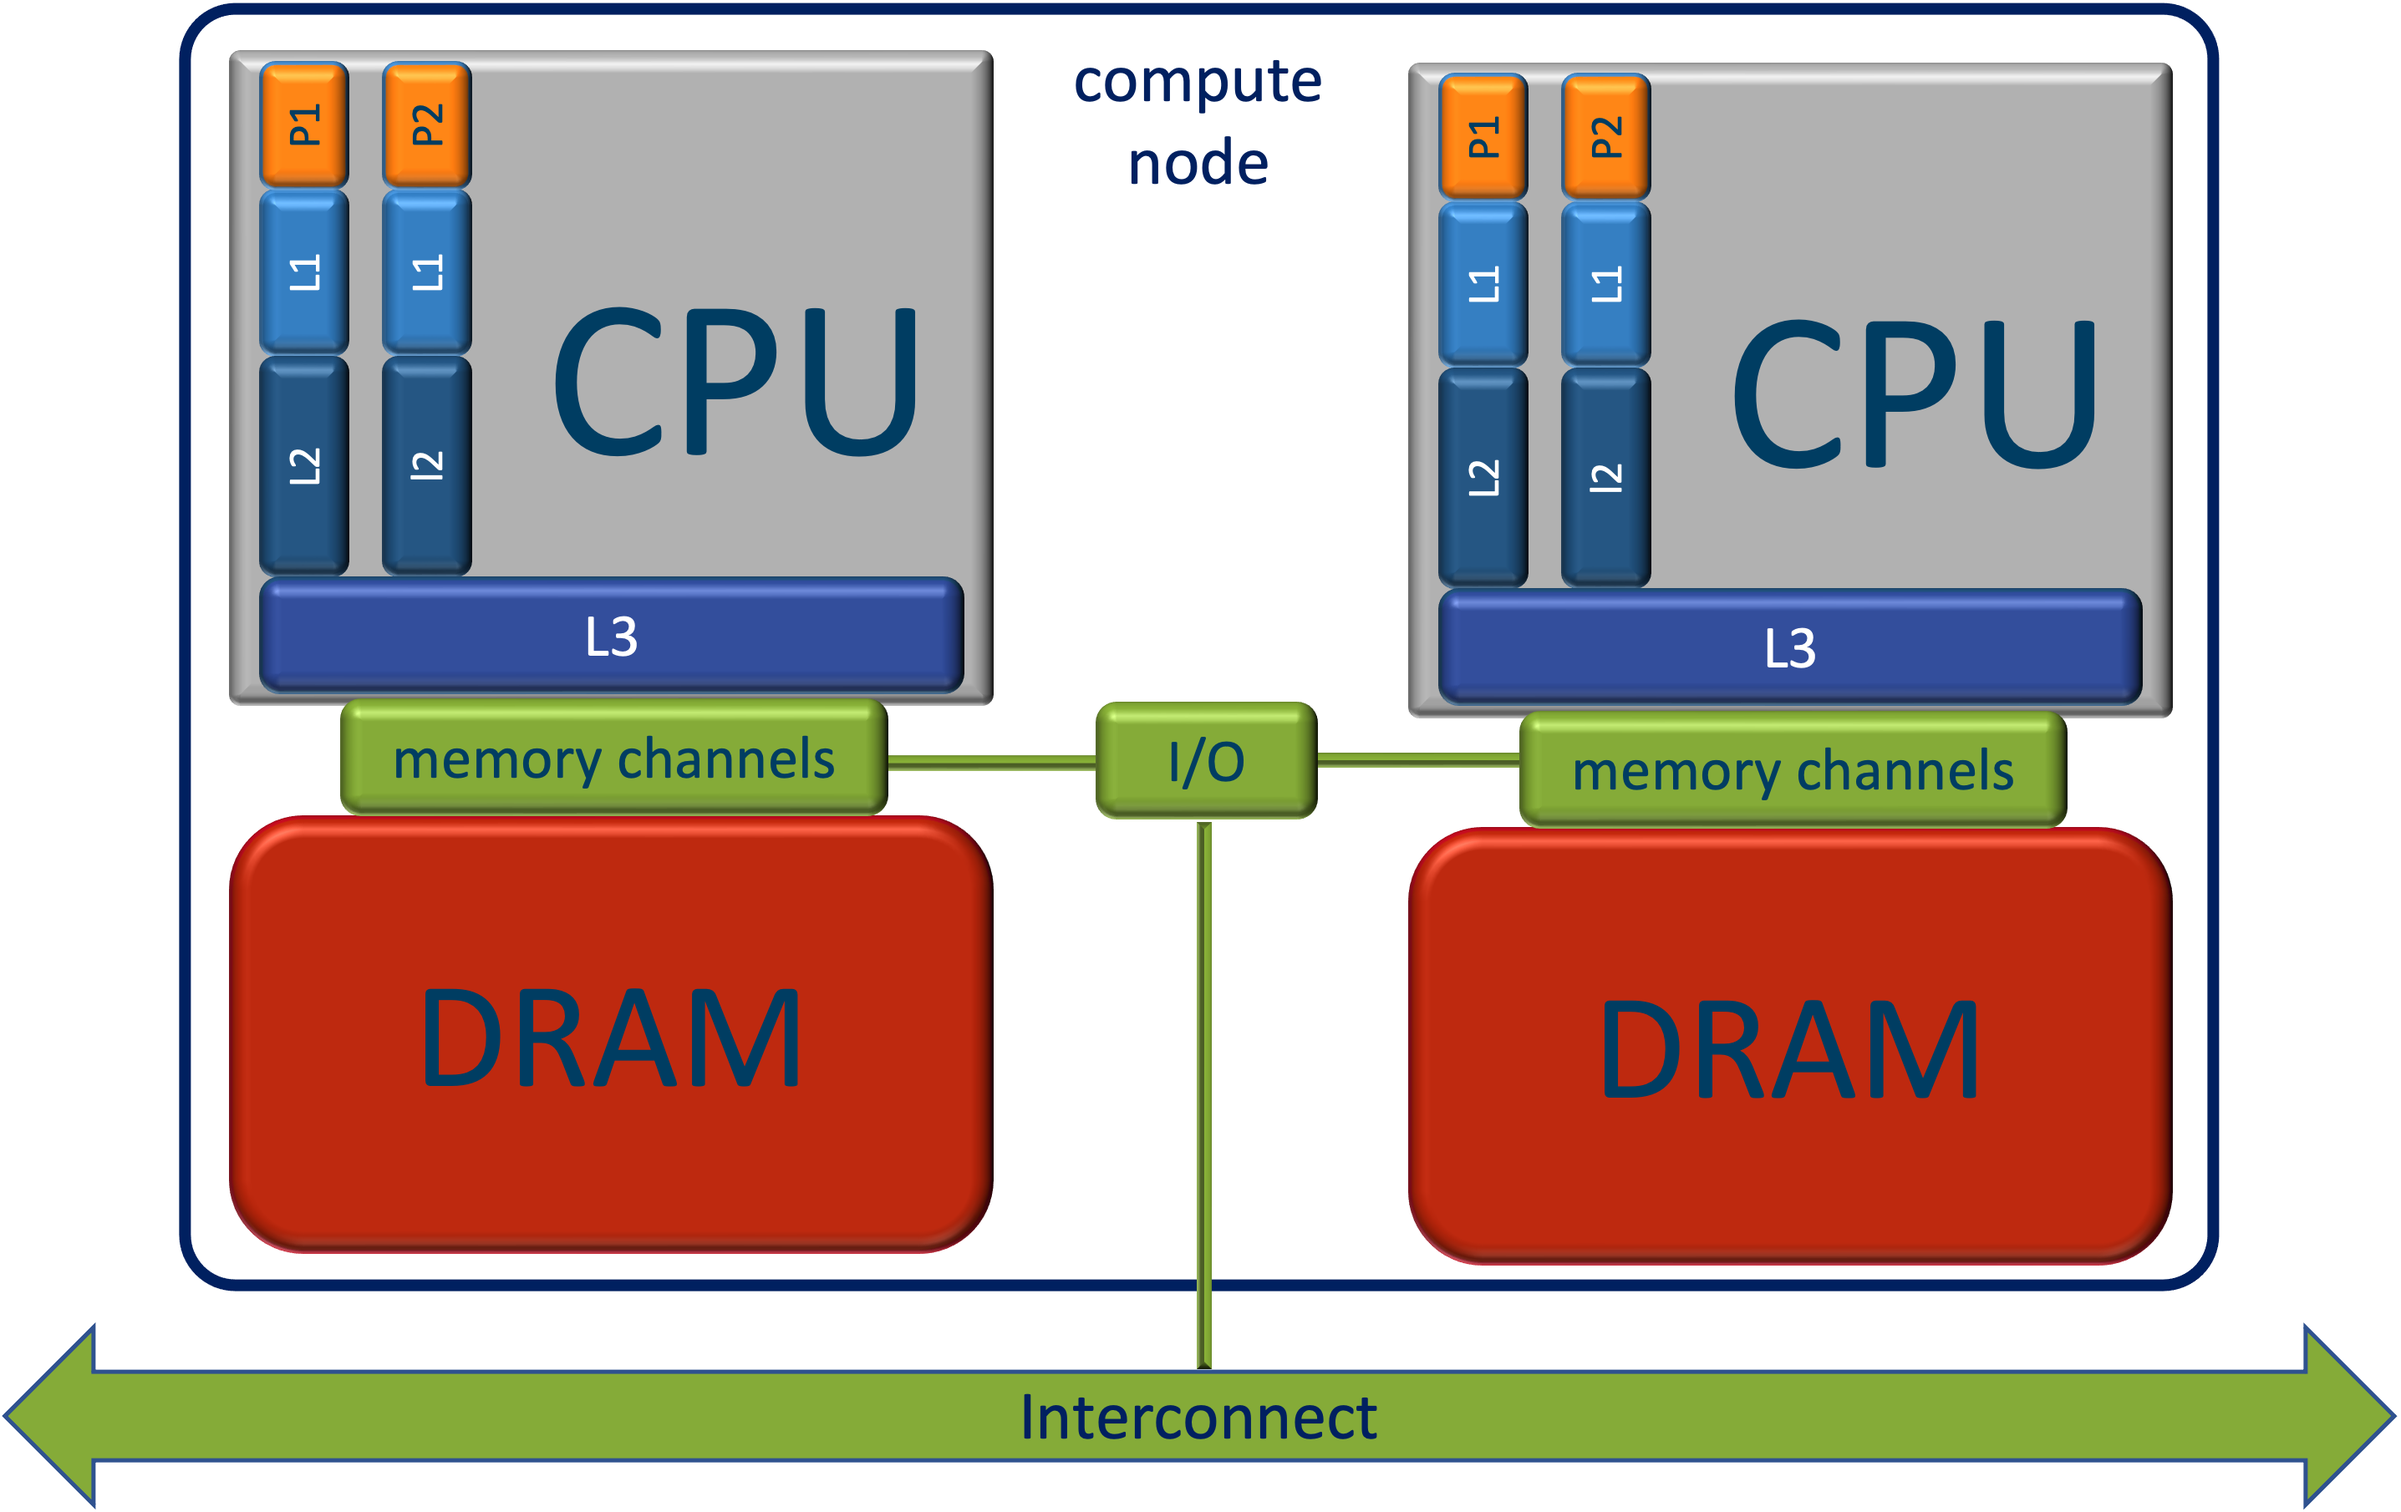
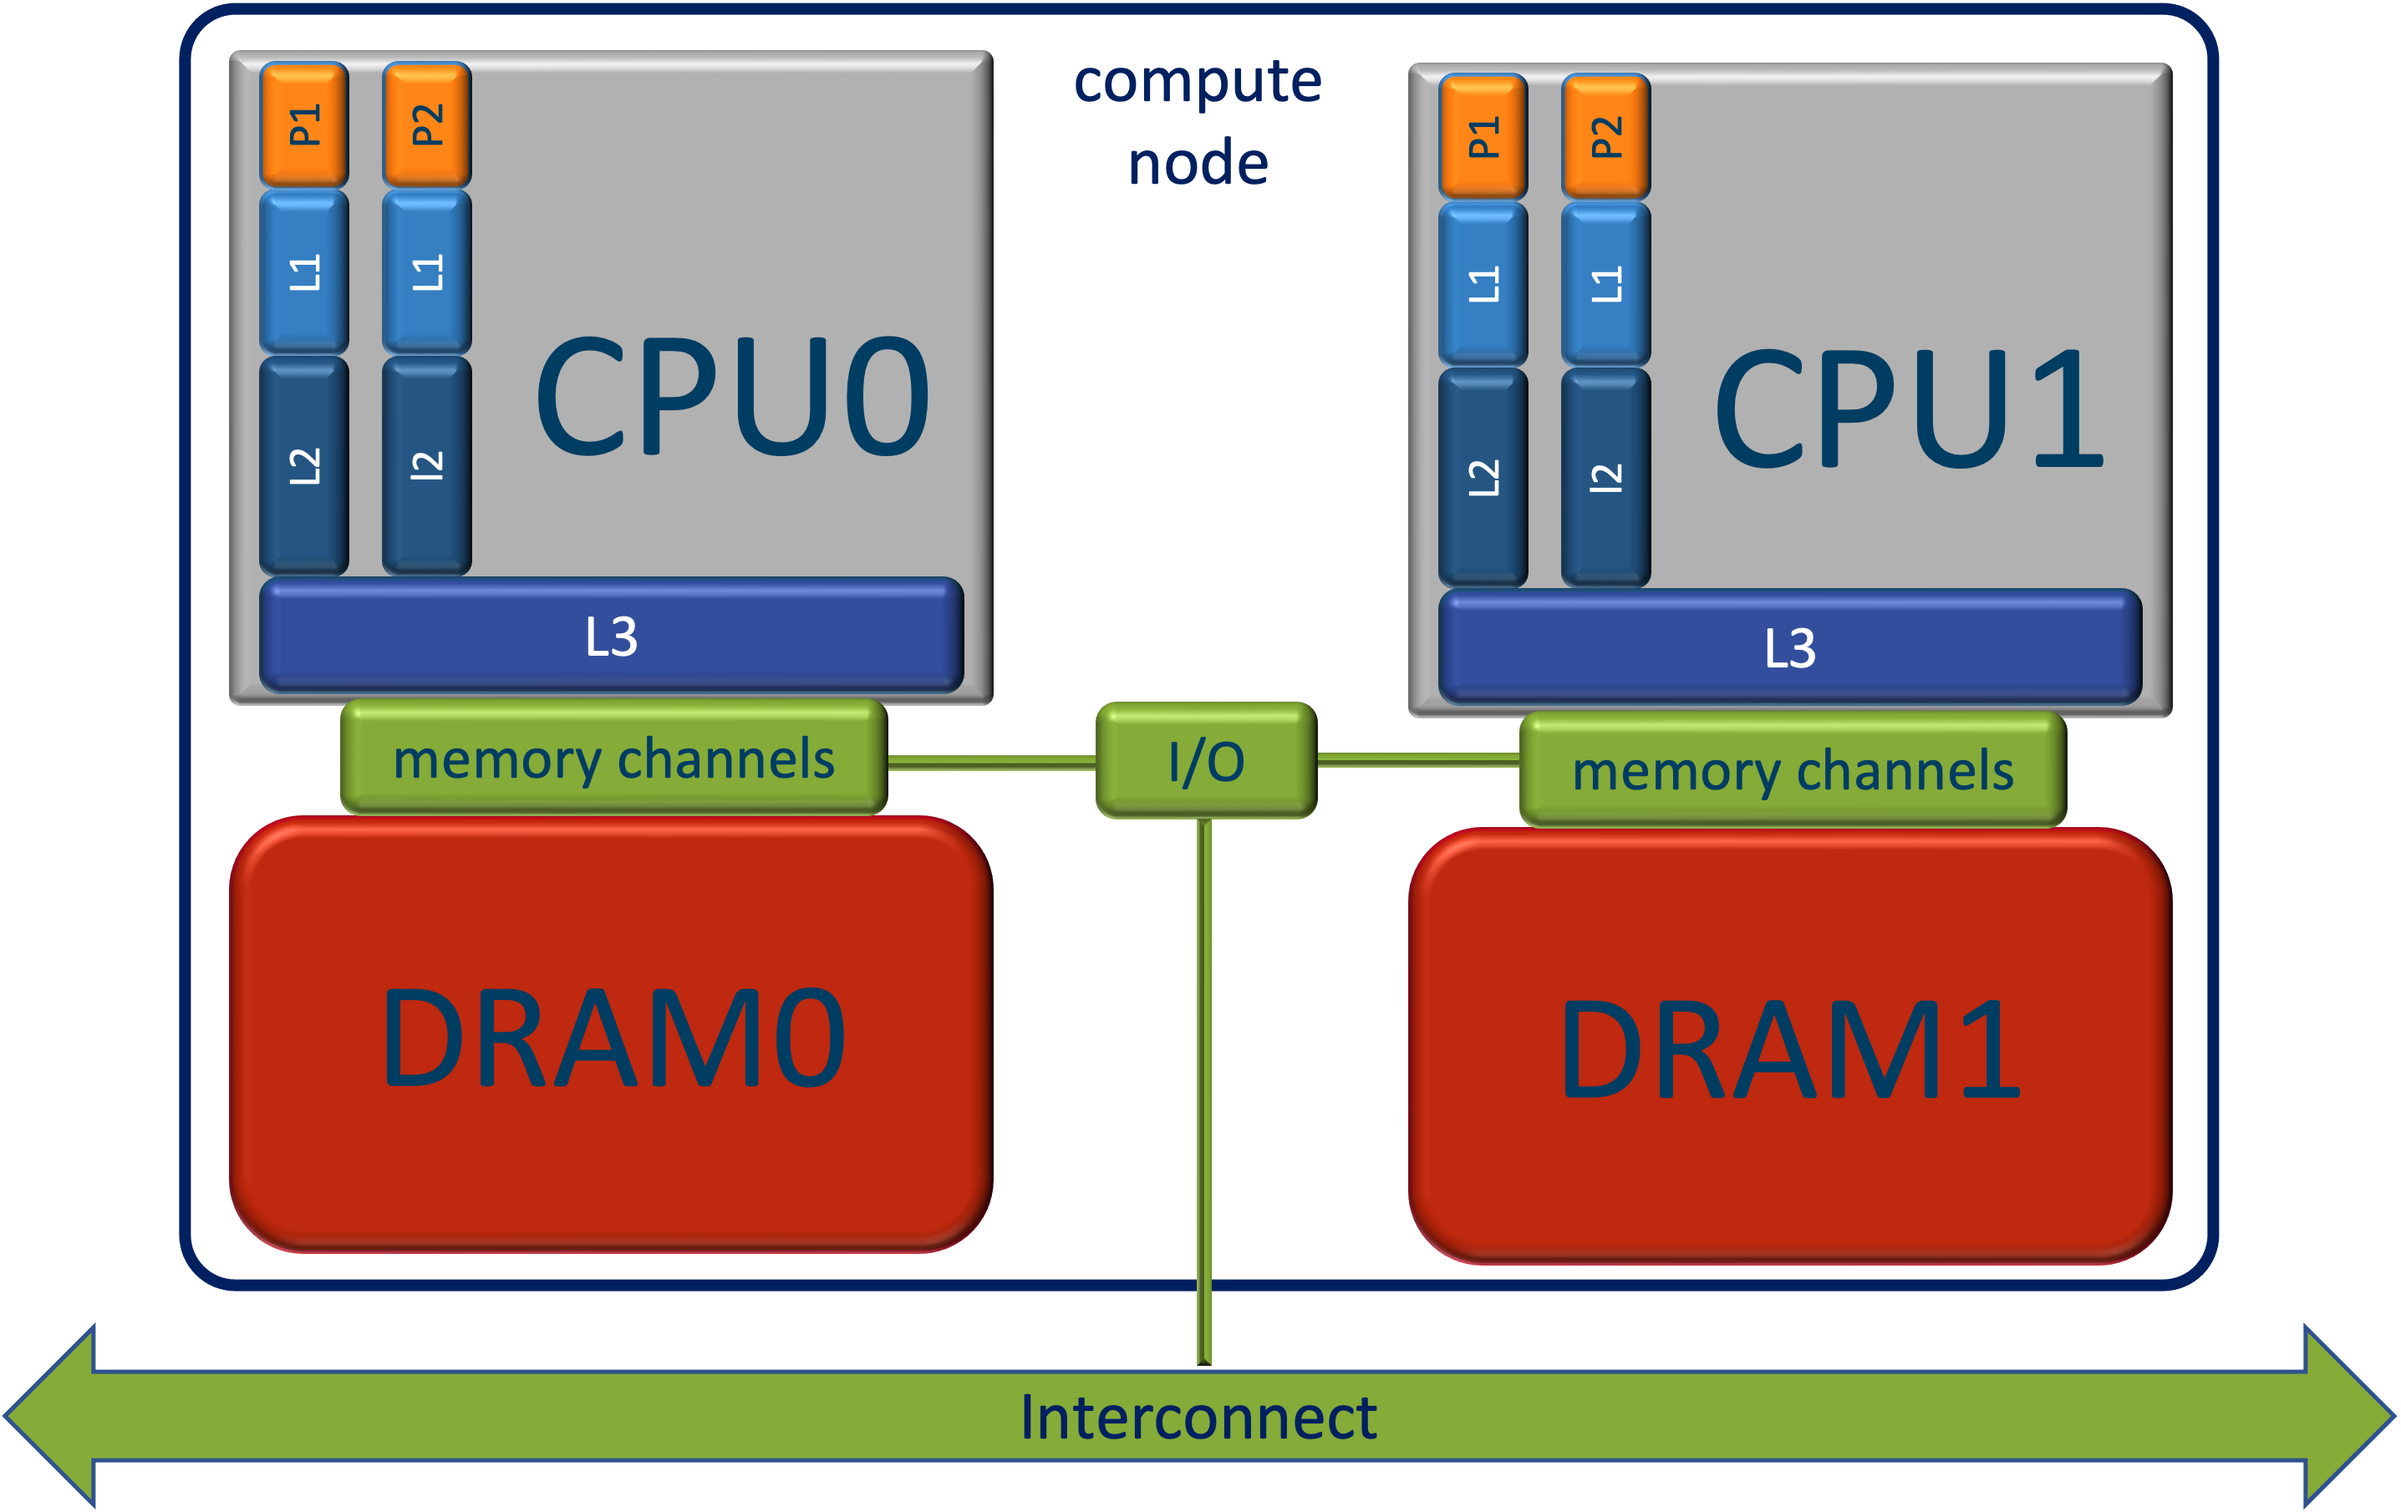
problems with figures fixed
no / before public!

diff --git a/docs/chapter-3.md b/docs/chapter-3.md
@@ -1,5 +1,26 @@
 # Chapter 3 - Optimise first, then parallelize
 
+[//]: # (script below is for allowing for MathJax rendering of LateX expressions)
+
+<script type="text/javascript"
+  src="https://cdnjs.cloudflare.com/ajax/libs/mathjax/2.7.0/MathJax.js?config=TeX-AMS_CHTML">
+</script>
+<script type="text/x-mathjax-config">
+  MathJax.Hub.Config({
+    tex2jax: {
+      inlineMath: [['$','$'], ['\\(','\\)']],
+      processEscapes: true},
+      jax: ["input/TeX","input/MathML","input/AsciiMath","output/CommonHTML"],
+      extensions: ["tex2jax.js","mml2jax.js","asciimath2jax.js","MathMenu.js","MathZoom.js","AssistiveMML.js", "[Contrib]/a11y/accessibility-menu.js"],
+      TeX: {
+      extensions: ["AMSmath.js","AMSsymbols.js","noErrors.js","noUndefined.js"],
+      equationNumbers: {
+      autoNumber: "AMS"
+      }
+    }
+  });
+</script>
+
 ## When to parallelize, and what to do first...
 
 When your program takes too long, the memory of your machine is too small for your problem or the accuracy you need 
@@ -29,7 +50,7 @@ with $ \beta = 1/{k_B T} $. At $T=0$ we have $m(0) = m_0 = 0.5$, and at high $T$
 
 The solution is a curve like this:
 
-![m(T)](/public/m(T).png)
+![m(T)](public/m(T).png)
 
 The program compute this as follows: For any temperature $T$, set $m = m_0$ as an inital guess. Then iterate $ m_
 {i+1} = 1/(2 + 4\Phi(m_i)) $ until $ \Delta m = m_{i+1} - m_i $ is small. Here,
@@ -41,13 +62,13 @@ and the integral is computed using Gauss-Legendre integration on 64 points.
 The choice of $m=0.5$ as initial guess is obviously a good one close to $T=0$. However, looking at the graph above, 
 it becomes clear that as T increases the solution moves further and further away from $0.5$. Furthermore, if we 
 compute tempurature points at equidistant tempurature points, $T_j = \delta j$ for some $\delta$ and $j=0,1,2, .
-..$, it is also clear that the solution of the previous temperature point, *i.e.* $m_{j-1}, is a far better initial 
+..$, it is also clear that the solution of the previous temperature point, *i.e.* $m_{j-1}$, is a far better initial 
 initial guess 
-guess than $m_0$. This turns out to be 1.4x faster. Not a tremendous improvement, as the graph above seems continuous 
-we can take this idea a step further: using interpolation from solutions a lower temperature points to predict the 
-next solution and use that as an initial guess. Linear interpolation of $m_j$ from $m_{j-1}$ and $m_{j-2}$ gives a 
-a speedup of 1.94x and quadratic interpolation from  $m_{j-1}$, $m_{j-2}$ and $m_{j-3}$ a factor of 2.4x. That is a 
-substantial speedup achieved without acttually modifying the code. This optimisation comes entirely from 
+guess than $m_0$. This turns out to be 1.4x faster. Not a tremendous improvement, but as the graph above seems 
+continuous w e can take this idea a step further: using interpolation from solutions a lower temperature points to 
+predict the next solution and use that as an initial guess. Linear interpolation of $m_j$ from $m_{j-1}$ and 
+$m_{j-2}$ gives a speedup of 1.94x and quadratic interpolation from $m_{j-1}$, $m_{j-2}$ and $m_{j-3}$ a factor of 2.4x.  
+That is a substantial speedup achieved without acttually modifying the code. This optimisation comes entirely from 
 understanding what your algorithm actually does. Investigation of the code itself demonstrated that it made suffered 
 from a lot of dynamic memory management and that it did not vectorize. After fixing these issues, the code ran an 
 additional 13.6x faster. In total the code was sped up by an impressive 32.6x.

diff --git a/docs/chapter-2.md b/docs/chapter-2.md
@@ -42,7 +42,7 @@ are also smaller. The farther away from the processor the bigger they are, but a
 The cores and the caches are on the same chip. For this reason they are considerably faster than the main memory. 
 Faster memory is more expensive and therefor smaller. The figure below illustrates the layout.
 
-![1-socket](/public/1-socket.png)
+![1-socket](public/1-socket.png)
 
 The I/O hub connects the cpu to the outside world, hard disk, network, ...
 
@@ -261,6 +261,12 @@ It can be seen as an ordinary computer but without peripheral devices (no screen
 A supercomputer consists of 100s to 1 000s of nodes (totalling up to 100 000s of cores), mutually connected to an 
 ultra-fast network, the interconnect. The interconnect allows the nodes to exchange information so that they can 
 work together on the same computational problem. It is the number of nodes and cores that makes a supercomputer a 
-supercomputer, not (!) the performance of the individual cores.   
+supercomputer, not (!) the performance of the individual cores. Motherboards for supercomputer nodes typically have 
+2 sockets, each of which holds a CPU. Technically speaking they behave as a single CPU double the size, and double 
+the memory. Performance-wise, however, the latency across the two CPUs is typically a factor 2 larger. This goes by 
+the name **ccNUMA**, or **cache coherent non-uniform memory architecture**. **Cache coherence** means that if caches 
+of different copies hold copies of the same cache line, and one of them is modified, all copies are updated. 
+**NUMA** means that there are different domains in the global address space with different latency and/or bandwidth. 
+CPU0 can access data in DRAM1, but this is significantly slower (typically 2x). 
 
-![node](/public/node.png)
+![node](public/node.png)

diff --git a/docs/public/enable-latex.md b/docs/public/enable-latex.md
@@ -1,0 +1,20 @@
+[//]: # (script below is for allowing for MathJax rendering of LateX expressions)
+
+<script type="text/javascript"
+  src="https://cdnjs.cloudflare.com/ajax/libs/mathjax/2.7.0/MathJax.js?config=TeX-AMS_CHTML">
+</script>
+<script type="text/x-mathjax-config">
+  MathJax.Hub.Config({
+    tex2jax: {
+      inlineMath: [['$','$'], ['\\(','\\)']],
+      processEscapes: true},
+      jax: ["input/TeX","input/MathML","input/AsciiMath","output/CommonHTML"],
+      extensions: ["tex2jax.js","mml2jax.js","asciimath2jax.js","MathMenu.js","MathZoom.js","AssistiveMML.js", "[Contrib]/a11y/accessibility-menu.js"],
+      TeX: {
+      extensions: ["AMSmath.js","AMSsymbols.js","noErrors.js","noUndefined.js"],
+      equationNumbers: {
+      autoNumber: "AMS"
+      }
+    }
+  });
+</script>

diff --git a/docs/glossary.md b/docs/glossary.md
@@ -13,8 +13,11 @@ Here is an alphabetical list of terms with links to where they are explained in 
 
 ## C
 
+- [Cache coherence][supercomputer-architecture]
+- [cache coherent non-uniform memory architecture][supercomputer-architecture]
 - [cache line][the-hierarchical-structure-of-cpu-memory]
 - [cache-oblivious][tiling]
+- [ccNUMA][supercomputer-architecture]
 - [code modernisation][code-optimisations]
 - [Code optimisations][code-optimisations]
 - [Common sense optimizations][common-sense-optimisations]
@@ -53,6 +56,7 @@ Here is an alphabetical list of terms with links to where they are explained in 
 ## N
 
 - [node][supercomputer-architecture]
+- [NUMA][supercomputer-architecture]
 
 ## P
 

diff --git a/docs/over-de-auteur.md b/docs/over-de-auteur.md
@@ -46,7 +46,7 @@ Hier zijn verscheidene korrelige processen aan de orde:
 
 ### Spherische korrels die op een trampoline vallen
 
-![type:video](/public/spheres2000_sheet4.mp4)
+![type:video](public/spheres2000_sheet4.mp4)
 
 ### Mpacts: ijsbreker
 
